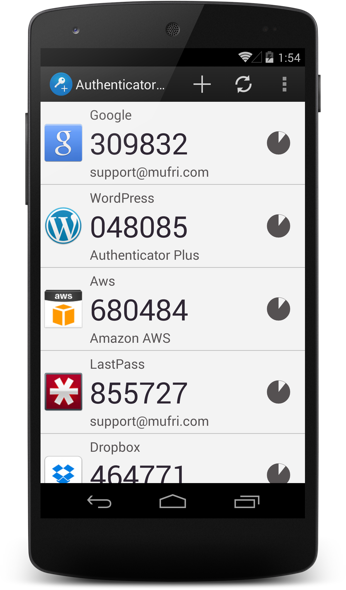
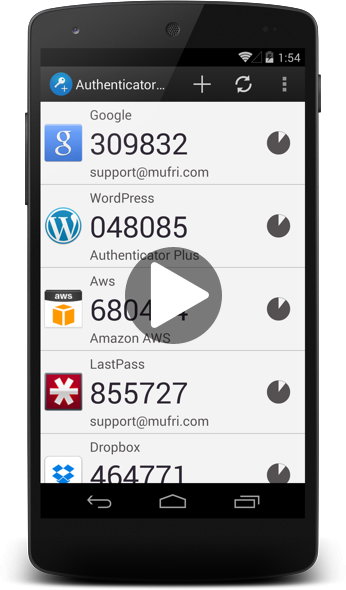
update

diff --git a/index.html b/index.html
@@ -37,14 +37,15 @@
 <h1 class=centered><b itemprop=name>Authenticator Plus</b></h1>
 <h3 class=centered>Better way to manage 2-step enabled accounts</h3>
 <br>
+<a href="//fast.wistia.net/embed/iframe/mb2vmdty71?popover=true" class="wistia-popover[height=833,playerColor=7b796a,width=500]" alt="Click Play demo video">
 <div id=slideshow class=cycle-slideshow>
 <img itemprop=screenshot src="assets/img/1.png" width=346 height=590>
 <img itemprop=screenshot src="assets/img/2.png" width=346 height=590>
 <img itemprop=screenshot src="assets/img/3.png" width=346 height=590>
 <img itemprop=screenshot src="assets/img/4.png" width=346 height=590>
 <img itemprop=screenshot src="assets/img/5.png" width=346 height=590>
-
 </div>
+</a>
 </div>
 <br>
 <br>
@@ -204,7 +205,7 @@ Import from Google Authenticator
 <meta itemprop="url" content="http://www.mufri.com">
 <meta itemprop="name" content="Mufri"></span>
 </span>
-
+<script charset="ISO-8859-1" src="//fast.wistia.com/assets/external/popover-v1.js"></script>
 <script src=http://malsup.github.io/min/jquery.cycle2.min.js></script>
 {% include google_analytics_download.html %}
 {% include footer.html %}
